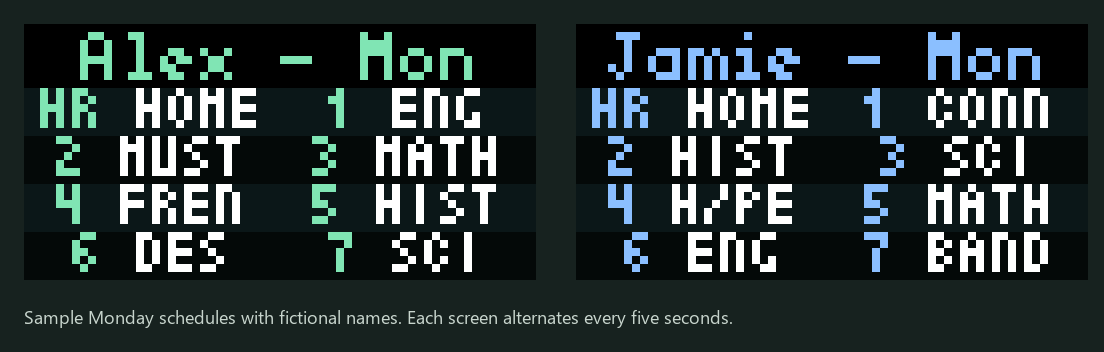
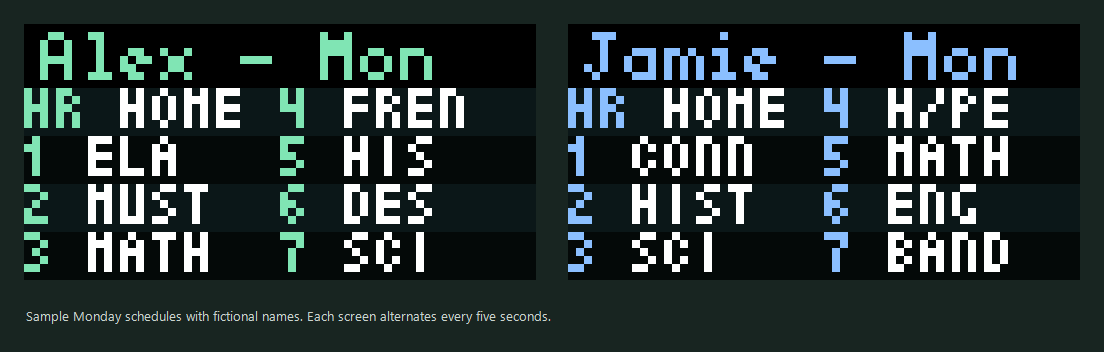
Update sample images in readme

Changed region(s): [[0.4928, 0.0625, 0.9855, 0.8125], [0.0, 0.0938, 0.462, 0.7812], [0.0, 0.875, 0.6775, 0.9375]]

diff --git a/README.md b/README.md
@@ -12,7 +12,8 @@ left-aligned columns, with extra pages for longer days. Non-school days show
 
 ![Example Monday schedules for fictional students Alex and Jamie](docs/sample-schedule.png)
 
-*Illustrative screens with fictional names. The app alternates between children
+*Illustrative screens with fictional names. Classes read down the left column,
+then down the right column. The app alternates between children
 every five seconds.*
 
 ## Requirements
